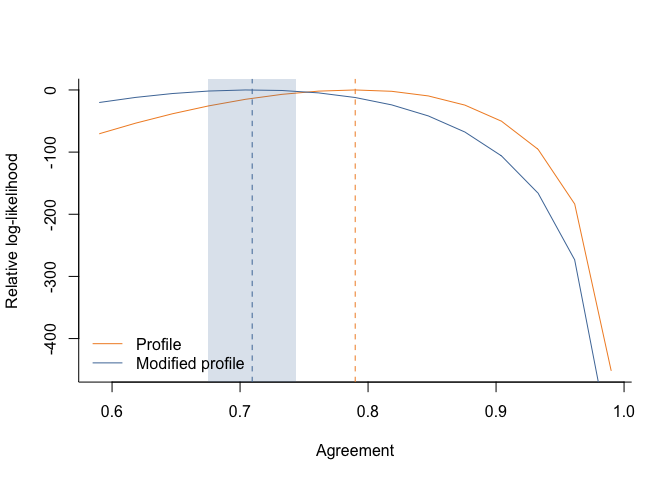
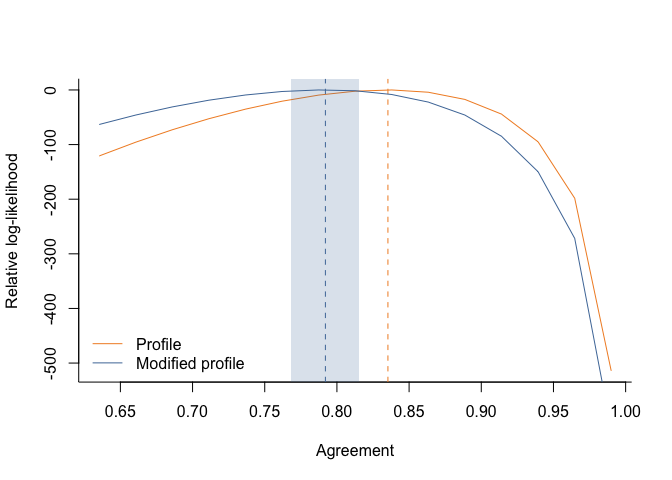
fix readme and add intro vignette

diff --git a/README.md b/README.md
@@ -16,8 +16,8 @@ status](https://www.r-pkg.org/badges/version/AgreementPhi)](https://CRAN.R-proje
 The `AgreementPhi` package is the companion of “Alfonzetti G., Bellio
 R., Vidoni P. *Accurate agreement estimation in crowdsourced relevance
 assessments*”. It allows the accurate estimation of the general $\Phi$
-agreement among crowd-workers assessing a given collection of items
-(Checco et al. 2017).
+agreement measure among multiple crowd-workers assessing a given
+collection of items (Checco et al. 2017).
 
 ## Installation
 
@@ -36,14 +36,14 @@ library(AgreementPhi)
 set.seed(321)
 # setting dimension
 items <- 200
-budget_per_item <- 5
+budget_per_item <- 8
 n_obs <- items * budget_per_item
 
 # item-specific intercepts to generate the data
 alphas <- runif(items, -2, 2)
 
 # true agreement (between 0 and 1)
-agr <- .7
+agr <- .8
 
 # generate continuous rating in (0,1)
 dt <- sim_data(
@@ -68,17 +68,16 @@ fit <- agreement(
   VERBOSE = TRUE)
 #> 
 #> DATA
-#>  - Detected 199 items and 200 workers.
+#>  - Detected 200 items and 200 workers.
 #>  - Detected continuous data on the (0,1) range.
-#>  - Average number of observed ratings per item is 5.03.
-#>  - Average number of observed ratings per worker is 5.
-#> Average number of ratings per item is lower than reccomended
+#>  - Average number of observed ratings per item is 8.
+#>  - Average number of observed ratings per worker is 8.
 #> 
 #> MODEL PARAMETERS
 #>  - Constant effects: workers
 #>  - Nuisance effects: items
-#> Non-adjusted agreement: 0.789952
-#> Adjusted agreement: 0.709465
+#> Non-adjusted agreement: 0.835331
+#> Adjusted agreement: 0.792021
 #> Done!
 ```
 
@@ -89,13 +88,13 @@ Inference and plotting functions
 ci <- get_ci(fit)
 ci 
 #> $agreement_est
-#> [1] 0.7094645
+#> [1] 0.7920213
 #> 
 #> $agreement_se
-#> [1] 0.01757427
+#> [1] 0.01203436
 #> 
 #> $agreement_ci
-#> [1] 0.6750196 0.7439094
+#> [1] 0.7684344 0.8156082
 
 # compute log-likelihood over a grid
 range_ll <- get_range_ll(fit)